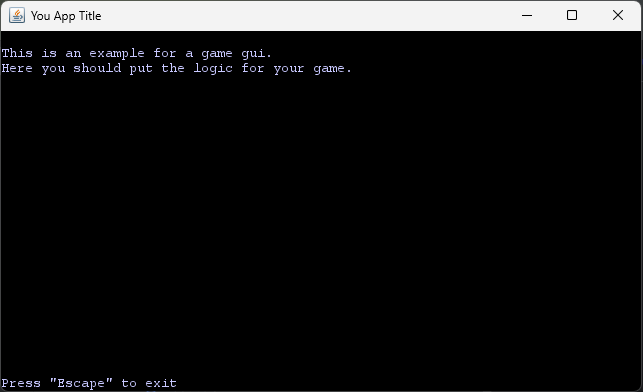
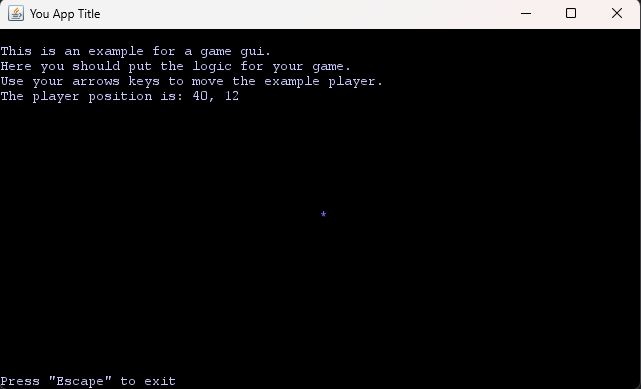
Better examples

diff --git a/src/gui/impl/GameGUI.java b/src/gui/impl/GameGUI.java
@@ -2,11 +2,11 @@ package gui.impl;
 
 import com.googlecode.lanterna.SGR;
 import com.googlecode.lanterna.input.KeyStroke;
-import com.googlecode.lanterna.input.KeyType;
+import engine.ExamplePlayer;
 import engine.UIManager;
 import gui.AbstractTerminalGUI;
 import gui.ITerminalGUI;
-import utils.Constants;
+import utils.InputHandler;
 import utils.Utils;
 
 import java.io.IOException;
@@ -15,8 +15,10 @@ import java.io.IOException;
  * GUI implementation for the main game screen.
  */
 public class GameGUI extends AbstractTerminalGUI implements ITerminalGUI {
+    private boolean gameRunning = true;
+    private ExamplePlayer examplePlayer;
     /**
-     * Constructor for the AboutGUI.
+     * Constructor for the GameGUI.
      *
      * @param uiManager The UIManager giving access to the terminal and screen.
      */
@@ -30,35 +32,41 @@ public class GameGUI extends AbstractTerminalGUI implements ITerminalGUI {
     @Override
     public void show() throws IOException {
         super.show();
-        boolean[] running = new boolean[]{true};
 
         screen.clear();
         Utils.hideCursor(0, 0, textGraphics);
 
-        // Background thread for handling user input during the display
-        // (Async input handling)
-        new Thread(() -> {
-            while (running[0]) {
-                KeyStroke choice = null;
-                try {
-                    choice = screen.readInput();
-                } catch (IOException ignored) {}
+        int centerX = screen.getTerminalSize().getColumns()/2;
+        int centerY = screen.getTerminalSize().getRows()/2;
+        examplePlayer = new ExamplePlayer(centerX, centerY);
 
-                if (choice != null) {
-                    // Terminate the loop on EOF or Escape key press
-                    if (choice.getKeyType() == KeyType.EOF || choice.getKeyType() == KeyType.Escape) {
-                        running[0] = false;
-                    }
+        // InputHandler is a class to handle input asynchronously
+        InputHandler inputHandler = new InputHandler(screen);
+        inputHandler.startThread();
+
+        while (gameRunning){
+            // Draw everything on screen
+            draw();
+            // Get the key press from the user if any
+            KeyStroke choice = inputHandler.handleInput();
+            if (choice != null){
+                // If the user has pressed any key
+                switch (choice.getKeyType()) {
+                    // Handle arrow movement
+                    case ArrowUp -> examplePlayer.move(0, -1);
+                    case ArrowDown -> examplePlayer.move(0, 1);
+                    case ArrowLeft -> examplePlayer.move(-1, 0);
+                    case ArrowRight -> examplePlayer.move(1, 0);
+                    case EOF, Escape -> gameRunning = false;
                 }
             }
-        }).start();
 
-        while (running[0]) {
-            // Draw the GUI
-            draw();
-            // Wait some time to avoid CPU Burn
-            Utils.waitFor(200);
+            // Don't burn the CPU
+            Utils.waitFor(10);
         }
+        // Stop the input handler thread
+        inputHandler.stopThread();
+        // Call the close method for the text gui
         onClose();
     }
 
@@ -73,7 +81,16 @@ public class GameGUI extends AbstractTerminalGUI implements ITerminalGUI {
         super.draw();
         textGraphics.setForegroundColor(uiManager.getThemeForeground());
         textGraphics.setBackgroundColor(uiManager.getThemeBackground());
-        drawText("\nThis is an example for a game gui.\nHere you should put the logic for your game.");
+        drawText("""
+                This is an example for a game gui.
+                Here you should put the logic for your game.
+                Use your arrows keys to move the example player.
+                The player position is:\s""" + examplePlayer.getX()+", "+ examplePlayer.getY());
+
+        // If there is a player instance, then draw the player
+        if (examplePlayer != null){
+            examplePlayer.draw(textGraphics);
+        }
 
         textGraphics.disableModifiers(SGR.BOLD);
         textGraphics.setForegroundColor(uiManager.getThemeForeground());
@@ -88,7 +105,7 @@ public class GameGUI extends AbstractTerminalGUI implements ITerminalGUI {
      * @param completeText The complete text to be drawn.
      */
     private void drawText(String completeText){
-        int offsetY = 0;
+        int offsetY = 1;
         for (String line : completeText.split("\n")){
             textGraphics.putString(0, offsetY, line);
             offsetY++;

diff --git a/src/utils/InputHandler.java b/src/utils/InputHandler.java
@@ -1,0 +1,52 @@
+package utils;
+
+import com.googlecode.lanterna.input.KeyStroke;
+import com.googlecode.lanterna.screen.Screen;
+
+import java.io.IOException;
+
+/**
+ * The InputHandler class allows for asynchronous keystroke handling.
+ * This code should not be modified unless you know what you are doing.
+ */
+public class InputHandler {
+    private final Screen screen;
+    private volatile KeyStroke lastChar;
+    private Thread inputThread;
+    private boolean[] handled = new boolean[] {false};
+
+    public InputHandler(Screen screen) {
+        this.screen = screen;
+    }
+
+    public void startThread() {
+        inputThread = new Thread(() -> {
+            while (!Thread.currentThread().isInterrupted()) {
+                try {
+                    lastChar = screen.readInput();
+                    handled[0] = false;
+                } catch (IOException e) {
+
+                }
+            }
+        });
+        inputThread.start();
+    }
+
+    public void stopThread() {
+        inputThread.interrupt(); // Interrupt the input thread
+        try {
+            inputThread.join(); // Wait for inputThread to finish
+        } catch (InterruptedException e) {
+
+        }
+    }
+
+    public KeyStroke handleInput() {
+        if (!handled[0]){
+            handled[0] = true;
+            return lastChar;
+        }
+        return null;
+    }
+}

diff --git a/src/engine/ExamplePlayer.java b/src/engine/ExamplePlayer.java
@@ -1,0 +1,48 @@
+package engine;
+
+import com.googlecode.lanterna.TextColor;
+import com.googlecode.lanterna.graphics.TextGraphics;
+
+/**
+ * Example of a player class implementation.
+ * For this example, we will have a player that can be drawn on the screen and can be moved around
+ */
+public class ExamplePlayer {
+    // Position X
+    private int posX;
+    // Position Y
+    private int posY;
+    // Let's add a player color just for fun
+    private final TextColor myColor = new TextColor.RGB(140, 100, 255);
+
+    /**
+     * Constructor for MyPlayer class
+     *
+     * @param x The starting x position
+     * @param y The starting y position
+     */
+    public ExamplePlayer(int x, int y){
+        posX = x;
+        posY = y;
+    }
+
+    public void move(int amountX, int amountY){
+        posX += amountX;
+        posY += amountY;
+    }
+
+    public void draw(TextGraphics textGraphics){
+        // Set the foreground color to myColor
+        textGraphics.setForegroundColor(myColor); // This is optional
+        // Draw the actual player on the screen
+        textGraphics.putString(posX, posY, "*");
+    }
+
+    public int getX() {
+        return posX;
+    }
+
+    public int getY() {
+        return posY;
+    }
+}

diff --git a/src/gui/impl/SettingsGUI.java b/src/gui/impl/SettingsGUI.java
@@ -19,7 +19,7 @@ public class SettingsGUI extends AbstractTerminalGUI implements ITerminalGUI {
     private static final String GUI_TITLE = "Settings";
 
     /**
-     * Constructor for the AboutGUI.
+     * Constructor for the SettingsGUI.
      *
      * @param uiManager The UIManager giving access to the terminal and screen.
      */

diff --git a/src/gui/AbstractTerminalGUI.java b/src/gui/AbstractTerminalGUI.java
@@ -11,6 +11,7 @@ import java.io.IOException;
 
 /**
  * An abstract implementation of the ITerminalGUI interface providing common functionality.
+ * This code should not be modified unless you know what you are doing.
  */
 public class AbstractTerminalGUI implements ITerminalGUI {
 

diff --git a/src/gui/ITerminalGUI.java b/src/gui/ITerminalGUI.java
@@ -4,6 +4,7 @@ import java.io.IOException;
 
 /**
  * This interface represents a terminal GUI.
+ * This code should not be modified unless you know what you are doing.
  */
 public interface ITerminalGUI {
 

diff --git a/README.md b/README.md
@@ -1,15 +1,24 @@
 # Lanterna Template
-## Includes
- - A Terminal GUI class to easly create terminal GUIs (including resizing)
- - Main Menu
- - Error handling
- - Utils and Constant class
+## Overview
+This template provides a simple and easy way to use the Lanterna library in your project. It includes the following features:
+ - Terminal GUI Class: Easily create terminal-based graphical user interfaces, including support for resizing.
+ - Main Menu: A basic main menu implementation.
+ - Error Handling: Includes error handling mechanisms.
+ - Utils and Constants: Utility classes for common functionality.
+ - Basic Game Implementation: A simple game example.
 ## [Official documentation](https://github.com/mabe02/lanterna/blob/master/docs/contents.md)
+For detailed information on using Lanterna, refer to the official documentation.
 ## Screenshots
-- Main Menu ![Main Menu](images/mainMenu.png)
+ - Main Menu<br> ![Main Menu](images/mainMenu.png)
 
-- About Menu ![About Menu](images/aboutMenu.png)
+ - About Menu<br> ![About Menu](images/aboutMenu.png)
 
-- Main Menu ![Settings Menu](images/settingsMenu.png)
+ - Main Menu<br> ![Settings Menu](images/settingsMenu.png)
 
-- Main Menu ![Game](images/game.png)
+ - Main Menu<br> ![Game](images/game.png)
+## The goal
+<p>
+The primary goal of this template is
+to provide an organized class structure for using Lanterna in your projects.
+Feel free to change it as needed.
+</p>
